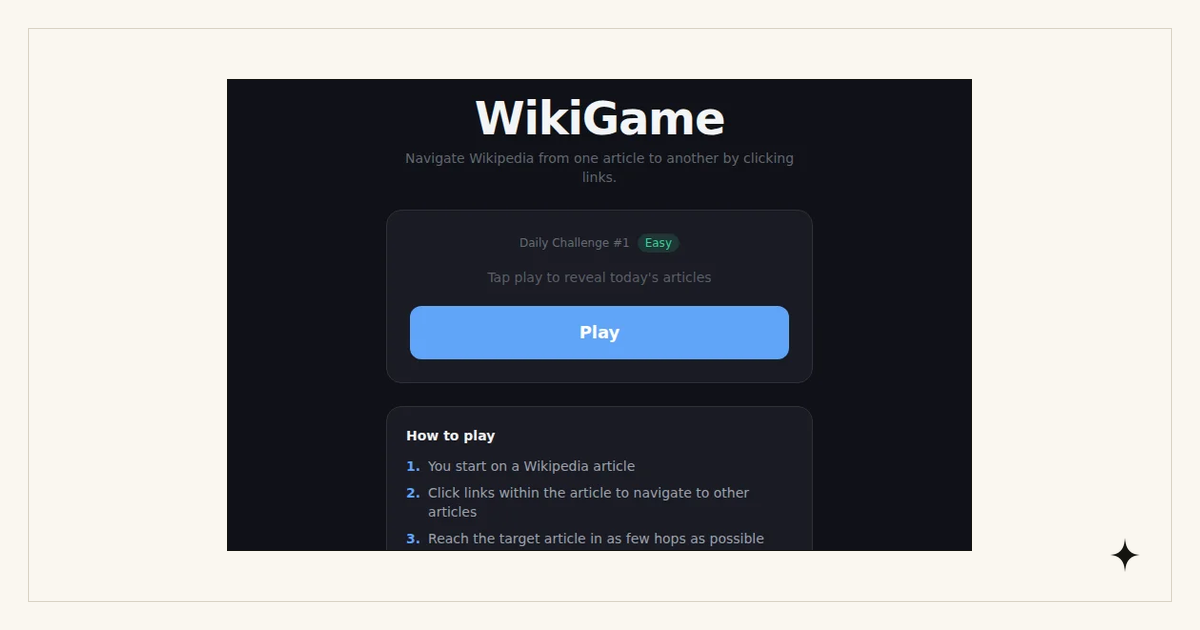
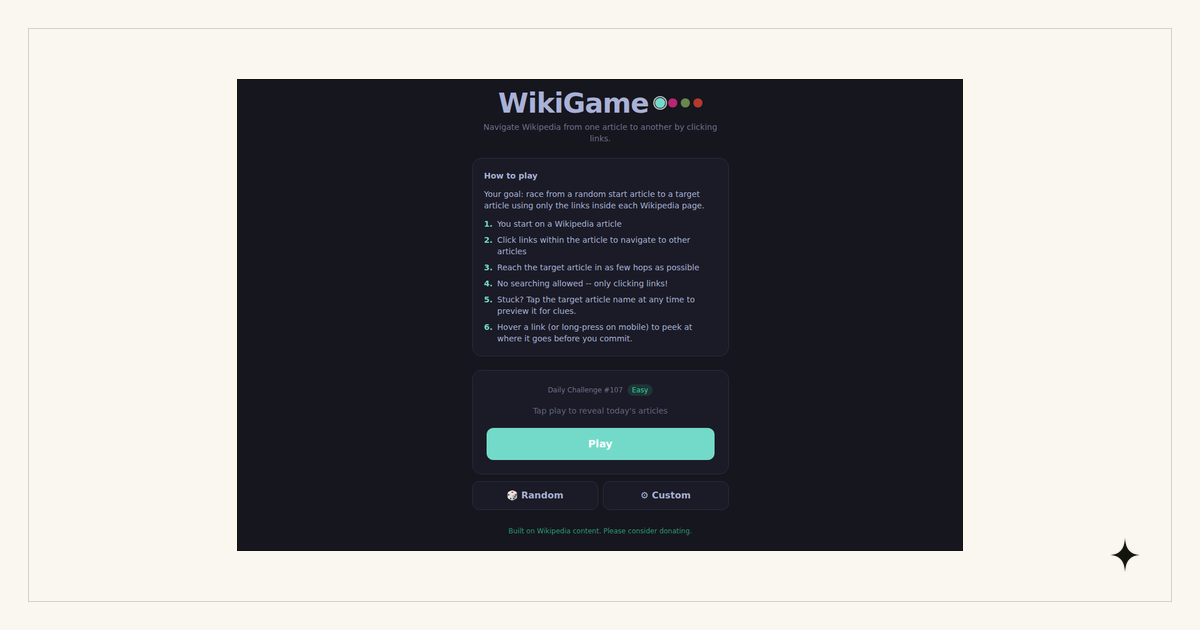
Give the daily WikiGame its own page and untangle it from the solver
Two different projects were sharing one name and one slug. jhomer192/wikigame
is a daily Wikipedia race a person plays by hand, live at /wikigame/, pinned on
GitHub and on the resume, and nothing on this site linked to it — a previous
sweep read it as an abandoned duplicate of the solver. jhomer192/wikipedia-game-solver
is a program that walks the links itself, live at /wikipedia-game-solver/, and it
owned the /projects/wikigame/ write-up.

Each write-up now sits at the slug its app is served from. The solver moves to
/projects/wikipedia-game-solver/ and is called Wikipedia Game Solver everywhere,
which is what its own page title, repo and README already call it. The racing
game takes /projects/wikigame/ with a new write-up. No redirect stub is left
behind: the old URL is not dead, it now serves the other project of the same
name, and both pages link to each other so a reader who lands on the wrong one
is one click from the right one.

The "1,826 cached routes" credited to the solver on the homepage was wrong twice
over. The solver has no cache — every request goes live to the MediaWiki API,
which its own write-up already said. The number came from the racing game, whose
challenge pool the source comments describe as wrapping every 1,826 entries. The
deployed bundle actually carries 1,822 curated start/end pairs (728 easy, 669
medium, 425 hard), so that is the figure used, on the game.

Assets were mixed up the same way. /screenshots/wikigame.webp and /og/wikigame.png
[…]

diff --git a/projects/wikigame/index.html b/projects/wikigame/index.html
@@ -4,11 +4,11 @@
 <meta charset="utf-8">
 <meta name="viewport" content="width=device-width,initial-scale=1,maximum-scale=5">
 <title>WikiGame · Jack Homer</title>
-<meta name="description" content="WikiGame, give it any two Wikipedia articles and watch it walk the links from one to the other, scoring each step by how close it gets you to the goal.">
+<meta name="description" content="WikiGame is a daily Wikipedia race: the same two articles for everyone, only the links inside the pages to get between them, and a bot that solves the pair first to set your par.">
 <link rel="canonical" href="https://jackhomer.com/projects/wikigame/">
 <meta property="og:type" content="article">
 <meta property="og:title" content="WikiGame · Jack Homer">
-<meta property="og:description" content="Give it any two Wikipedia articles and watch it find a path between them, hopping link to link.">
+<meta property="og:description" content="A daily Wikipedia race: same two articles for everyone, only the blue links in between, and a bot that sets the par.">
 <meta property="og:url" content="https://jackhomer.com/projects/wikigame/">
 <link rel="icon" href="/favicon.ico" sizes="16x16 32x32 48x48">
 <link rel="icon" type="image/svg+xml" href="/favicon.svg">
@@ -18,14 +18,14 @@
 <meta property="og:image:height" content="630">
 <meta name="twitter:card" content="summary_large_image">
 <meta name="twitter:title" content="WikiGame · Jack Homer">
-<meta name="twitter:description" content="WikiGame, give it any two Wikipedia articles and watch it walk the links from one to the other, scoring each step by how close it gets you to the goal.">
+<meta name="twitter:description" content="WikiGame is a daily Wikipedia race: the same two articles for everyone, only the links inside the pages to get between them, and a bot that solves the pair first to set your par.">
 <meta name="twitter:image" content="https://jackhomer.com/og/wikigame.png">
 <link rel="preconnect" href="https://fonts.googleapis.com">
 <link rel="preconnect" href="https://fonts.gstatic.com" crossorigin>
 <link href="https://fonts.googleapis.com/css2?family=Cormorant+Garamond:ital,wght@0,400;0,500;0,700;1,400&family=IBM+Plex+Mono:wght@400;500&display=swap" rel="stylesheet">
-<link rel="stylesheet" href="/assets/atlas.css?v=20">
+<link rel="stylesheet" href="/assets/atlas.css?v=21">
 <script defer src="https://cloud.umami.is/script.js" data-website-id="__UMAMI_WEBSITE_ID__"></script>
-<script type="application/ld+json">{"@context":"https://schema.org","@graph":[{"@type":"CreativeWork","name":"WikiGame","description":"WikiGame, give it any two Wikipedia articles and watch it walk the links from one to the other, scoring each step by how close it gets you to the goal.","url":"https://jackhomer.com/projects/wikigame/","image":"https://jackhomer.com/og/wikigame.png","author":{"@type":"Person","name":"Jack Homer","url":"https://jackhomer.com"}},{"@type":"BreadcrumbList","itemListElement":[{"@type":"ListItem","position":1,"name":"Jack Homer","item":"https://jackhomer.com"},{"@type":"ListItem","position":2,"name":"Projects","item":"https://jackhomer.com/projects/"},{"@type":"ListItem","position":3,"name":"WikiGame","item":"https://jackhomer.com/projects/wikigame/"}]}]}</script>
+<script type="application/ld+json">{"@context":"https://schema.org","@graph":[{"@type":"CreativeWork","name":"WikiGame","description":"WikiGame is a daily Wikipedia race: the same two articles for everyone, only the links inside the pages to get between them, and a bot that solves the pair first to set your par.","url":"https://jackhomer.com/projects/wikigame/","image":"https://jackhomer.com/og/wikigame.png","author":{"@type":"Person","name":"Jack Homer","url":"https://jackhomer.com"}},{"@type":"BreadcrumbList","itemListElement":[{"@type":"ListItem","position":1,"name":"Jack Homer","item":"https://jackhomer.com"},{"@type":"ListItem","position":2,"name":"Projects","item":"https://jackhomer.com/projects/"},{"@type":"ListItem","position":3,"name":"WikiGame","item":"https://jackhomer.com/projects/wikigame/"}]}]}</script>
 </head>
 <body>
 <a class="skip" href="#main">Skip to content</a>
@@ -54,51 +54,90 @@
   <header class="header">
     <div class="c">
       <h1>WikiGame</h1>
-      <div class="sub">wiki path solver</div>
+      <div class="sub">daily wikipedia race</div>
     </div>
   </header>
 
   <section class="proj">
     <div class="meta">Side project · 2026</div>
-    <p class="tagline">Give it any two Wikipedia articles and watch it find a path between them, hopping link to link.</p>
+    <p class="tagline">One start article, one target, and only the blue links in between. Everyone gets the same pair each day, and a bot solves it first so you have a number to beat.</p>
 
     <figure class="media">
-      <img src="/screenshots/wikigame.webp" alt="WikiGame screenshot" width="780" height="493" decoding="async">
-      <figcaption>Demo · walking from one article to another, hop by hop</figcaption>
+      <img src="/screenshots/wikigame.webp" alt="WikiGame start screen showing the rules and the day's challenge" width="1000" height="649" decoding="async">
+      <figcaption>The day's challenge, still face down until you press play</figcaption>
     </figure>
 
     <p>
-      The Wikipedia Game is the old browser dare: start on one article, reach another using only the
-      blue links inside each page, in as few clicks as you can. Playing it by hand is half intuition and half luck: you click toward whatever feels closer to the destination and hope the next page opens
-      a better door. I wanted to watch that intuition run as a program, so I built a solver that makes the
-      same call at every step and shows you the trail it leaves behind.
+      The Wikipedia Game is the old browser dare: land on some article, reach another one, click
+      only the links inside the pages. It has always been played on the honour system in a
+      browser tab, which makes it easy to cheat and impossible to compare. WikiGame puts it on a
+      schedule instead. Everyone playing on a given day gets the same start and the same target,
+      the rules are enforced by the app rather than by you, and the run ends with a score you can
+      hold next to someone else's.
+    </p>
+
+    <h2>The day's pair</h2>
+    <p>
+      Challenge #1 was 19 April 2026 and the number goes up by one at local midnight. The pair
+      comes out of a hand-written pool of 1,822 start/end pairs, each labelled easy, medium or
+      hard, dealt in order and wrapping after about five years. The start is usually something
+      obscure and the target something famous, so the difficulty is real but the goal is
+      recognisable: <em>Isomorphism-closed subcategory</em> to <em>Boeing 747</em> was an easy
+      one. Neither title is shown before you commit. The card on the home screen gives you the
+      number and the difficulty, and nothing else until you press play.
+    </p>
+
+    <h2>The bot that sets par</h2>
+    <p>
+      Between pressing play and starting the clock there is a ready screen showing the two
+      articles, and while you read them a solver works the same puzzle in the background. It is a
+      trimmed port of the walker from the
+      <a href="/projects/wikipedia-game-solver/">Wikipedia Game Solver</a>: at each page it scores
+      up to twenty outbound links by TF-IDF cosine similarity between their intros and the
+      target's intro, then jumps to the best unvisited one, with twenty hops as the ceiling. It
+      also pulls the target's backlinks up front, so any link that sits one hop from the goal is
+      taken immediately. When the top scores bunch up, or it starts circling variants of the same
+      title, it penalises candidates that share words with where it has just been and reaches for
+      a broader article to break out.
     </p>
     <p>
-      The honest part of the problem is "closer." A human reads a page and senses which link points
-      roughly the right way; the solver has to turn that hunch into a number. So at each article it pulls
-      the outbound links, reads a little of what each one is about, and measures how much that text
-      overlaps with the destination article's text. The link that overlaps the most wins, and the walk
-      moves on. No backtracking, no lookahead, just the best-looking step, taken over and over until it
-      arrives or gives up.
+      Whatever it lands on becomes your par: its hop count, plus a time budget of twenty-five
+      seconds per hop. On the pair above it needed eighteen hops, which set a target of 7m 30s.
+      You can begin before it finishes, and the path it found is kept so you can watch it later
+      without paying for the search twice.
     </p>
 
-    <h2>How it works</h2>
+    <h2>What the app will not let you do</h2>
     <ul>
-      <li><strong>Greedy similarity walk</strong>: at each page it scores the outbound links by TF-IDF cosine similarity against the target article and jumps to the best unvisited one, repeating until it lands on the goal.</li>
-      <li><strong>Reads before it leaps</strong>: for every step it batch-fetches the intro extract of up to 40 candidate links, builds TF-IDF vectors over those intros plus the target, and ranks them, so the choice is based on what each page is actually about.</li>
-      <li><strong>Knows when to quit</strong>: it caps the run at 30 hops, never revisits a page, and aborts if the best candidate scores below a small threshold, meaning nothing on the page looks meaningfully connected to the target.</li>
-      <li><strong>Runs entirely in the browser</strong>: every request goes straight to the live public MediaWiki API with CORS, so there's no API key, no backend, and nothing to host beyond static files.</li>
-      <li><strong>Shows its reasoning</strong>: the path renders as a chain of cards so you can see each hop the walker chose and how the trail got from start to finish.</li>
+      <li><strong>Search</strong>: the article HTML comes from Wikipedia's REST API and every anchor has its href taken away before it renders, so a click is a move in the game rather than a page load. Citations, category and portal pages, and outbound links are dead.</li>
+      <li><strong>Click through from the target</strong>: the target preview renders the whole goal article, image and infobox included, with every link unwrapped into plain text. You can read it for clues, but you cannot ride it home.</li>
+      <li><strong>Fly blind</strong>: hovering a link, or long-pressing it on a phone, opens a popover with the summary of where it goes, so a guess costs you a moment instead of a hop.</li>
+      <li><strong>Lose your place</strong>: the running game is held in session storage, so a reload puts you back on the article you were reading, and the day's result and the bot's path stay in local storage after it ends.</li>
     </ul>
 
-    <h2>Stack</h2>
-    <p class="stack">Vite · React · TypeScript, talking directly to the MediaWiki API. The TF-IDF tokenizer and sparse cosine similarity are hand-rolled, ported from an earlier Python version of the same idea, and the whole thing ships as a static site on GitHub Pages.</p>
+    <p>
+      Finishing produces the path you actually took, with any article you doubled back to marked
+      in red, and a button that lays the bot's route out beside it. The shareable version is
+      deliberately thin: challenge number, hops, time, and a row of squares standing in for the
+      articles. Sending someone your result cannot spoil their run. Giving up records the
+      attempt too, which is the honest thing to do with a puzzle that some days beats you.
+    </p>
 
-    <p class="next"><strong>Next</strong> a bidirectional walk that searches from both articles at once, for shorter paths on the hard pairs.</p>
+    <h2>Off the schedule</h2>
+    <p>
+      Two other modes reuse the same machinery. Random pulls genuine random articles from the
+      MediaWiki API and throws back anything unplayable, lists, indexes, disambiguation pages,
+      bare years, and stubs under two kilobytes, so the pair it hands you has enough links to be
+      winnable. Custom takes any two titles through an autocomplete backed by Wikipedia's search
+      and checks both exist before the clock starts. The bot solves those pairs too.
+    </p>
+
+    <h2>Built with</h2>
+    <p class="stack">React · TypeScript · Vite · Tailwind, in four themes. Both Wikipedia interfaces are called straight from the browser, the Action API for links, backlinks and intro extracts, the REST API for article HTML and summaries, so there is no key, no backend, and nothing to host beyond static files.</p>
 
     <div class="cta">
-      <a href="/wikipedia-game-solver/" target="_blank" rel="noopener" data-umami-event="proj-link" data-umami-event-target="wikigame-demo">Try it live ↗</a>
-      <a href="https://github.com/jhomer192/wikipedia-game-solver" target="_blank" rel="noopener" data-umami-event="proj-link" data-umami-event-target="wikigame-src">Source on GitHub ↗</a>
+      <a href="/wikigame/" target="_blank" rel="noopener" data-umami-event="proj-link" data-umami-event-target="wikigame-demo">Play today's challenge ↗</a>
+      <a href="https://github.com/jhomer192/wikigame" target="_blank" rel="noopener" data-umami-event="proj-link" data-umami-event-target="wikigame-src">Source on GitHub ↗</a>
     </div>
   </section>
 
@@ -110,7 +149,7 @@
   <a href="/contact/" data-user="jack" data-domain="homerfamily.com" data-show-address>jack at homerfamily.com</a> · <a href="https://github.com/jhomer192">GitHub</a>
 </footer>
 
-<script src="/assets/common.js?v=20"></script>
+<script src="/assets/common.js?v=21"></script>
 
 </body>
 </html>

diff --git a/projects/wikipedia-game-solver/index.html b/projects/wikipedia-game-solver/index.html
@@ -1,0 +1,117 @@
+<!DOCTYPE html>
+<html lang="en">
+<head>
+<meta charset="utf-8">
+<meta name="viewport" content="width=device-width,initial-scale=1,maximum-scale=5">
+<title>Wikipedia Game Solver · Jack Homer</title>
+<meta name="description" content="Wikipedia Game Solver walks the links from one Wikipedia article to another, scoring each step by how close it gets to the goal, or runs a bidirectional search for the shortest path.">
+<link rel="canonical" href="https://jackhomer.com/projects/wikipedia-game-solver/">
+<meta property="og:type" content="article">
+<meta property="og:title" content="Wikipedia Game Solver · Jack Homer">
+<meta property="og:description" content="Give it any two Wikipedia articles and watch it find a path between them, hopping link to link.">
+<meta property="og:url" content="https://jackhomer.com/projects/wikipedia-game-solver/">
+<link rel="icon" href="/favicon.ico" sizes="16x16 32x32 48x48">
+<link rel="icon" type="image/svg+xml" href="/favicon.svg">
+<link rel="apple-touch-icon" href="/apple-touch-icon.png">
+<meta property="og:image" content="https://jackhomer.com/og/wikipedia-game-solver.png">
+<meta property="og:image:width" content="1200">
+<meta property="og:image:height" content="630">
+<meta name="twitter:card" content="summary_large_image">
+<meta name="twitter:title" content="Wikipedia Game Solver · Jack Homer">
+<meta name="twitter:description" content="Wikipedia Game Solver walks the links from one Wikipedia article to another, scoring each step by how close it gets to the goal, or runs a bidirectional search for the shortest path.">
+<meta name="twitter:image" content="https://jackhomer.com/og/wikipedia-game-solver.png">
+<link rel="preconnect" href="https://fonts.googleapis.com">
+<link rel="preconnect" href="https://fonts.gstatic.com" crossorigin>
+<link href="https://fonts.googleapis.com/css2?family=Cormorant+Garamond:ital,wght@0,400;0,500;0,700;1,400&family=IBM+Plex+Mono:wght@400;500&display=swap" rel="stylesheet">
+<link rel="stylesheet" href="/assets/atlas.css?v=21">
+<script defer src="https://cloud.umami.is/script.js" data-website-id="__UMAMI_WEBSITE_ID__"></script>
+<script type="application/ld+json">{"@context":"https://schema.org","@graph":[{"@type":"CreativeWork","name":"Wikipedia Game Solver","description":"Wikipedia Game Solver walks the links from one Wikipedia article to another, scoring each step by how close it gets to the goal, or runs a bidirectional search for the shortest path.","url":"https://jackhomer.com/projects/wikipedia-game-solver/","image":"https://jackhomer.com/og/wikipedia-game-solver.png","author":{"@type":"Person","name":"Jack Homer","url":"https://jackhomer.com"}},{"@type":"BreadcrumbList","itemListElement":[{"@type":"ListItem","position":1,"name":"Jack Homer","item":"https://jackhomer.com"},{"@type":"ListItem","position":2,"name":"Projects","item":"https://jackhomer.com/projects/"},{"@type":"ListItem","position":3,"name":"Wikipedia Game Solver","item":"https://jackhomer.com/projects/wikipedia-game-solver/"}]}]}</script>
+</head>
+<body>
+<a class="skip" href="#main">Skip to content</a>
+
+<nav class="nav" aria-label="Primary">
+  <a class="brand" href="/">Jack Homer</a>
+  <ul>
+    <li><a href="/about/">About</a></li>
+    <li><a href="/projects/">Projects</a></li>
+    <li><a href="/career/">Career</a></li>
+    <li><a href="/business/">Business</a></li>
+    <li><a href="/contact/">Contact</a></li>
+  </ul>
+</nav>
+
+<main id="main" class="chart text-plate">
+  <div class="meander-frame" aria-hidden="true">
+    <span class="strip top"></span><span class="strip bottom"></span>
+    <span class="strip left"></span><span class="strip right"></span>
+  </div>
+  <svg class="corner tl" viewBox="0 0 28 28" aria-hidden="true"><path d="M2 14 Q2 2 14 2 M14 2 Q14 8 2 14" fill="none" stroke="#0a0a0a" stroke-width="1"/><circle cx="2" cy="14" r="1.2" fill="#0a0a0a"/></svg>
+  <svg class="corner tr" viewBox="0 0 28 28" aria-hidden="true"><path d="M2 14 Q2 2 14 2 M14 2 Q14 8 2 14" fill="none" stroke="#0a0a0a" stroke-width="1"/><circle cx="2" cy="14" r="1.2" fill="#0a0a0a"/></svg>
+  <svg class="corner bl" viewBox="0 0 28 28" aria-hidden="true"><path d="M2 14 Q2 2 14 2 M14 2 Q14 8 2 14" fill="none" stroke="#0a0a0a" stroke-width="1"/><circle cx="2" cy="14" r="1.2" fill="#0a0a0a"/></svg>
+  <svg class="corner br" viewBox="0 0 28 28" aria-hidden="true"><path d="M2 14 Q2 2 14 2 M14 2 Q14 8 2 14" fill="none" stroke="#0a0a0a" stroke-width="1"/><circle cx="2" cy="14" r="1.2" fill="#0a0a0a"/></svg>
+
+  <header class="header">
+    <div class="c">
+      <h1>Wikipedia Game Solver</h1>
+      <div class="sub">wiki path solver</div>
+    </div>
+  </header>
+
+  <section class="proj">
+    <div class="meta">Side project · 2026</div>
+    <p class="tagline">Give it any two Wikipedia articles and watch it find a path between them, hopping link to link.</p>
+
+    <figure class="media">
+      <img src="/screenshots/wikipedia-game-solver.webp" alt="Wikipedia Game Solver screenshot" width="1000" height="728" decoding="async">
+      <figcaption>Demo · walking from one article to another, hop by hop</figcaption>
+    </figure>
+
+    <p>
+      The Wikipedia Game is the old browser dare: start on one article, reach another using only the
+      blue links inside each page, in as few clicks as you can. Playing it by hand is half intuition and half luck: you click toward whatever feels closer to the destination and hope the next page opens
+      a better door. I wanted to watch that intuition run as a program, so I built a solver that makes the
+      same call at every step and shows you the trail it leaves behind.
+    </p>
+    <p>
+      The honest part of the problem is "closer." A human reads a page and senses which link points
+      roughly the right way; the solver has to turn that hunch into a number. So at each article it pulls
+      the outbound links, reads a little of what each one is about, and measures how much that text
+      overlaps with the destination article's text. The link that overlaps the most wins, and the walk
+      moves on. No backtracking, no lookahead, just the best-looking step, taken over and over until it
+      arrives or gives up.
+    </p>
+
+    <h2>How it works</h2>
+    <ul>
+      <li><strong>Greedy similarity walk</strong>: at each page it scores the outbound links by TF-IDF cosine similarity against the target article and jumps to the best unvisited one, repeating until it lands on the goal.</li>
+      <li><strong>Reads before it leaps</strong>: for every step it batch-fetches the intro extract of up to 40 candidate links, builds TF-IDF vectors over those intros plus the target, and ranks them, so the choice is based on what each page is actually about.</li>
+      <li><strong>Knows when to quit</strong>: it caps the run at 30 hops, never revisits a page, and aborts if the best candidate scores below a small threshold, meaning nothing on the page looks meaningfully connected to the target.</li>
+      <li><strong>Runs entirely in the browser</strong>: every request goes straight to the live public MediaWiki API with CORS, so there's no API key, no backend, and nothing to host beyond static files.</li>
+      <li><strong>Shows its reasoning</strong>: the path renders as a chain of cards so you can see each hop the walker chose and how the trail got from start to finish.</li>
+      <li><strong>Shortest-path mode</strong>: a bidirectional breadth-first search runs outward links from the start and backlinks from the target one level at a time until the two frontiers meet, which costs many more API calls but returns the shortest path inside the depth cap.</li>
+    </ul>
+
+    <h2>Stack</h2>
+    <p class="stack">Vite · React · TypeScript, talking directly to the MediaWiki API. The TF-IDF tokenizer and sparse cosine similarity are hand-rolled, ported from an earlier Python version of the same idea, and the whole thing ships as a static site on GitHub Pages.</p>
+
+    <p class="next"><strong>Not the same project as</strong> <a href="/projects/wikigame/">WikiGame</a>, the daily race a person plays by hand. That one borrows this walker to set its par.</p>
+
+    <div class="cta">
+      <a href="/wikipedia-game-solver/" target="_blank" rel="noopener" data-umami-event="proj-link" data-umami-event-target="solver-demo">Try it live ↗</a>
+      <a href="https://github.com/jhomer192/wikipedia-game-solver" target="_blank" rel="noopener" data-umami-event="proj-link" data-umami-event-target="solver-src">Source on GitHub ↗</a>
+    </div>
+  </section>
+
+  <p class="returnto"><a href="/projects/">← all projects</a></p>
+</main>
+
+<footer class="colophon">
+  Jack Homer · Bay Area<br>
+  <a href="/contact/" data-user="jack" data-domain="homerfamily.com" data-show-address>jack at homerfamily.com</a> · <a href="https://github.com/jhomer192">GitHub</a>
+</footer>
+
+<script src="/assets/common.js?v=21"></script>
+
+</body>
+</html>

diff --git a/assets/atlas.js b/assets/atlas.js
@@ -22,12 +22,12 @@ const CONSTELLATIONS = [
           'Friends mode: someone guesses your top 10 and gets scored on how close they got.',
         ],
         st:'Next.js · TypeScript · Tailwind · Spotify PKCE OAuth (bring your own dev app, no shared rate cap).'},
-      {nm:'WikiGame',           g:'wiki path solver',     m:1, k:'demo', cx:680, cy:55, url:D+'/wikipedia-game-solver', src:GH+'/wikipedia-game-solver', img:'/screenshots/wikigame.webp', page:'/projects/wikigame/',
+      {nm:'Wikipedia Game Solver', g:'wiki path solver',  m:1, k:'demo', cx:680, cy:55, url:D+'/wikipedia-game-solver', src:GH+'/wikipedia-game-solver', img:'/screenshots/wikipedia-game-solver.webp', page:'/projects/wikipedia-game-solver/',
         d:'Give it any two Wikipedia articles and watch it find a path between them, hopping link to link.',
         hi:[
           'Greedy TF-IDF walker: at each page it scores outbound links by similarity to the target and takes the best one, up to 30 hops.',
           'Public API only: runs straight against the live MediaWiki API, no key or backend.',
-          'Route cache: common paths resolve instantly from precomputed results.',
+          'Shortest-path mode: a bidirectional breadth-first search runs out from both articles until the frontiers meet, returning the shortest path within the depth cap.',
         ],
         st:'Vite · React · TypeScript · MediaWiki API.'},
       {nm:'Meme Maker',         g:'browser meme editor',  m:2, k:'demo', cx:885, cy:120, url:D+'/meme-generator', src:GH+'/meme-generator', img:'/screenshots/meme-generator.webp', page:'/projects/meme-maker/',
@@ -119,9 +119,19 @@ const CONSTELLATIONS = [
           'Watch it play: a browser panel streams the live frame, the button, the reason for it, and the party; every decision is written to a trace log with the state before and after.',
         ],
         st:'Python · mGBA · Ollama (qwen2.5vl:7b perceiving, qwen2.5:14b or qwen3.6:27b deciding). Runs entirely on one machine, on my own GPU — no API keys, no per-token cost, nothing hosted. The only running cost is electricity.'},
+      {nm:'WikiGame',           g:'daily wikipedia race', m:2, k:'demo', cx:782, cy:87, url:D+'/wikigame', src:GH+'/wikigame', img:'/screenshots/wikigame.webp', page:'/projects/wikigame/',
+        d:'A Wikipedia race with a fixed pair every day: same start, same target for everyone, and only the blue links inside the articles to get there.',
+        hi:[
+          'One puzzle a day: 1,822 hand-written start/end pairs, each tagged easy, medium or hard, dealt out one per day since 19 April 2026.',
+          'A bot sets your par: a TF-IDF walker solves the day\'s pair while you read the two titles, then hands you its hop count to beat.',
+          'Wikipedia without the shortcuts: articles render inside the app with every link rewritten, so there is no search box and no way to jump straight to the target.',
+          'Spoiler-free sharing: results copy out as a hop count, a time and a row of squares, with the article names left out.',
+        ],
+        st:'React · TypeScript · Vite · Tailwind, calling the MediaWiki Action and REST APIs from the browser. No backend, no key.'},
     ],
-    // The Builder's Loom: outer frame (top beam, posts, bottom beam) + inner warp threads
-    edges:[[0,1],[1,2],[2,4],[4,8],[8,7],[7,0],[1,3],[3,6],[6,5],[5,7],[6,8],[3,10],[0,11],[8,12]],
+    // The Builder's Loom: outer frame (top beam, posts, bottom beam) + inner warp threads.
+    // WikiGame (13) sits on the top beam between 1 and 2, so the beam still reads straight.
+    edges:[[0,1],[1,13],[13,2],[2,4],[4,8],[8,7],[7,0],[1,3],[3,6],[6,5],[5,7],[6,8],[3,10],[0,11],[8,12],[13,12]],
     conj:[[9,1]] },
 
   { id:'corona-laboris', name:'Corona Laboris', sub:'Day Work', section:'/career/',

diff --git a/projects/index.html b/projects/index.html
@@ -4,11 +4,11 @@
 <meta charset="utf-8">
 <meta name="viewport" content="width=device-width,initial-scale=1,maximum-scale=5">
 <title>Projects · Jack Homer</title>
-<meta name="description" content="Jack Homer's side projects: Wikipedia Game solver, Songrank, Conway's Game of Life, Clocktower tools, and more.">
+<meta name="description" content="Jack Homer's side projects: a daily Wikipedia race, a Wikipedia Game solver, Songrank, Conway's Game of Life, Clocktower tools, and more.">
 <link rel="canonical" href="https://jackhomer.com/projects/">
 <meta property="og:type" content="website">
 <meta property="og:title" content="Projects · Jack Homer">
-<meta property="og:description" content="Jack Homer's side projects: Wikipedia Game solver, Songrank, Conway's Game of Life, Clocktower tools, and more.">
+<meta property="og:description" content="Jack Homer's side projects: a daily Wikipedia race, a Wikipedia Game solver, Songrank, Conway's Game of Life, Clocktower tools, and more.">
 <meta property="og:url" content="https://jackhomer.com/projects/">
 <link rel="icon" href="/favicon.ico" sizes="16x16 32x32 48x48">
 <link rel="icon" type="image/svg+xml" href="/favicon.svg">
@@ -18,7 +18,7 @@
 <link rel="preconnect" href="https://fonts.googleapis.com">
 <link rel="preconnect" href="https://fonts.gstatic.com" crossorigin>
 <meta name="twitter:title" content="Projects · Jack Homer">
-<meta name="twitter:description" content="Jack Homer's side projects: Wikipedia Game solver, Songrank, Conway's Game of Life, Clocktower tools, and more.">
+<meta name="twitter:description" content="Jack Homer's side projects: a daily Wikipedia race, a Wikipedia Game solver, Songrank, Conway's Game of Life, Clocktower tools, and more.">
 <meta name="twitter:image" content="https://jackhomer.com/og.png">
 <link href="https://fonts.googleapis.com/css2?family=Cormorant+Garamond:ital,wght@0,400;0,500;0,700;1,400&family=IBM+Plex+Mono:wght@400;500&display=swap" rel="stylesheet">
 <link rel="stylesheet" href="/assets/atlas.css?v=21">
@@ -61,9 +61,9 @@
 
 <section class="scroll">
   <p class="lede">
-    Thirteen side projects. The brightest stars are Songrank and WikiGame, the two
-    with the most real traffic, and Claude Bot, the agent that built most of
-    the rest. Everything else is tools, toys, and experiments. Click a star to
+    Fourteen side projects. The brightest stars are Songrank and the two Wikipedia-game
+    projects, the ones with the most real traffic, and Claude Bot, the agent that
+    built most of the rest. Everything else is tools, toys, and experiments. Click a star to
     open it.
   </p>
   <hr class="rule">
@@ -72,11 +72,12 @@
     Dashed line: built by another project.
   </p>
   <hr class="rule">
-  <p class="ix-head">All thirteen, in full</p>
+  <p class="ix-head">All fourteen, in full</p>
   <ul class="proj-index">
     <li><a href="/projects/backpressure/">Backpressure</a> <span class="g">system-design trainer</span></li>
     <li><a href="/projects/songrank/">Songrank</a> <span class="g">spotify song ranker</span></li>
-    <li><a href="/projects/wikigame/">WikiGame</a> <span class="g">wiki path solver</span></li>
+    <li><a href="/projects/wikigame/">WikiGame</a> <span class="g">daily wikipedia race</span></li>
+    <li><a href="/projects/wikipedia-game-solver/">Wikipedia Game Solver</a> <span class="g">wiki path solver</span></li>
     <li><a href="/projects/meme-maker/">Meme Maker</a> <span class="g">browser meme editor</span></li>
     <li><a href="/projects/clocktower/">Clocktower ST</a> <span class="g">BotC storyteller tool</span></li>
     <li><a href="/projects/nuzlocke/">Nuzlocke</a> <span class="g">Pokémon run tracker</span></li>

diff --git a/index.html b/index.html
@@ -88,7 +88,8 @@
     <h3>Side projects</h3>
     <ul class="ix">
       <li><a href="/songrank/">Songrank</a>, Spotify song ranking with adaptive comparisons and bracket export. <a class="ix-more" href="/projects/songrank/">write-up</a></li>
-      <li><a href="/wikipedia-game-solver/">WikiGame</a>, Wikipedia-game best-path solver, 1,826 cached routes. <a class="ix-more" href="/projects/wikigame/">write-up</a></li>
+      <li><a href="/wikigame/">WikiGame</a>, daily Wikipedia race: the same two articles for everyone, 1,822 curated challenges, and a bot that sets the par. <a class="ix-more" href="/projects/wikigame/">write-up</a></li>
+      <li><a href="/wikipedia-game-solver/">Wikipedia Game Solver</a>, walks the links from one article to another by text similarity, or runs a bidirectional search for the shortest path. <a class="ix-more" href="/projects/wikipedia-game-solver/">write-up</a></li>
       <li><a href="/meme-generator/">Meme Maker</a>, browser meme editor; caption a template or your own image, export a PNG. <a class="ix-more" href="/projects/meme-maker/">write-up</a></li>
       <li><a href="/clocktower/">Clocktower ST</a>, Storyteller tools for Blood on the Clocktower. <a class="ix-more" href="/projects/clocktower/">write-up</a></li>
       <li><a href="/nuzlocke-tracker/">Nuzlocke</a>, Pokémon run tracker. <a class="ix-more" href="/projects/nuzlocke/">write-up</a></li>
